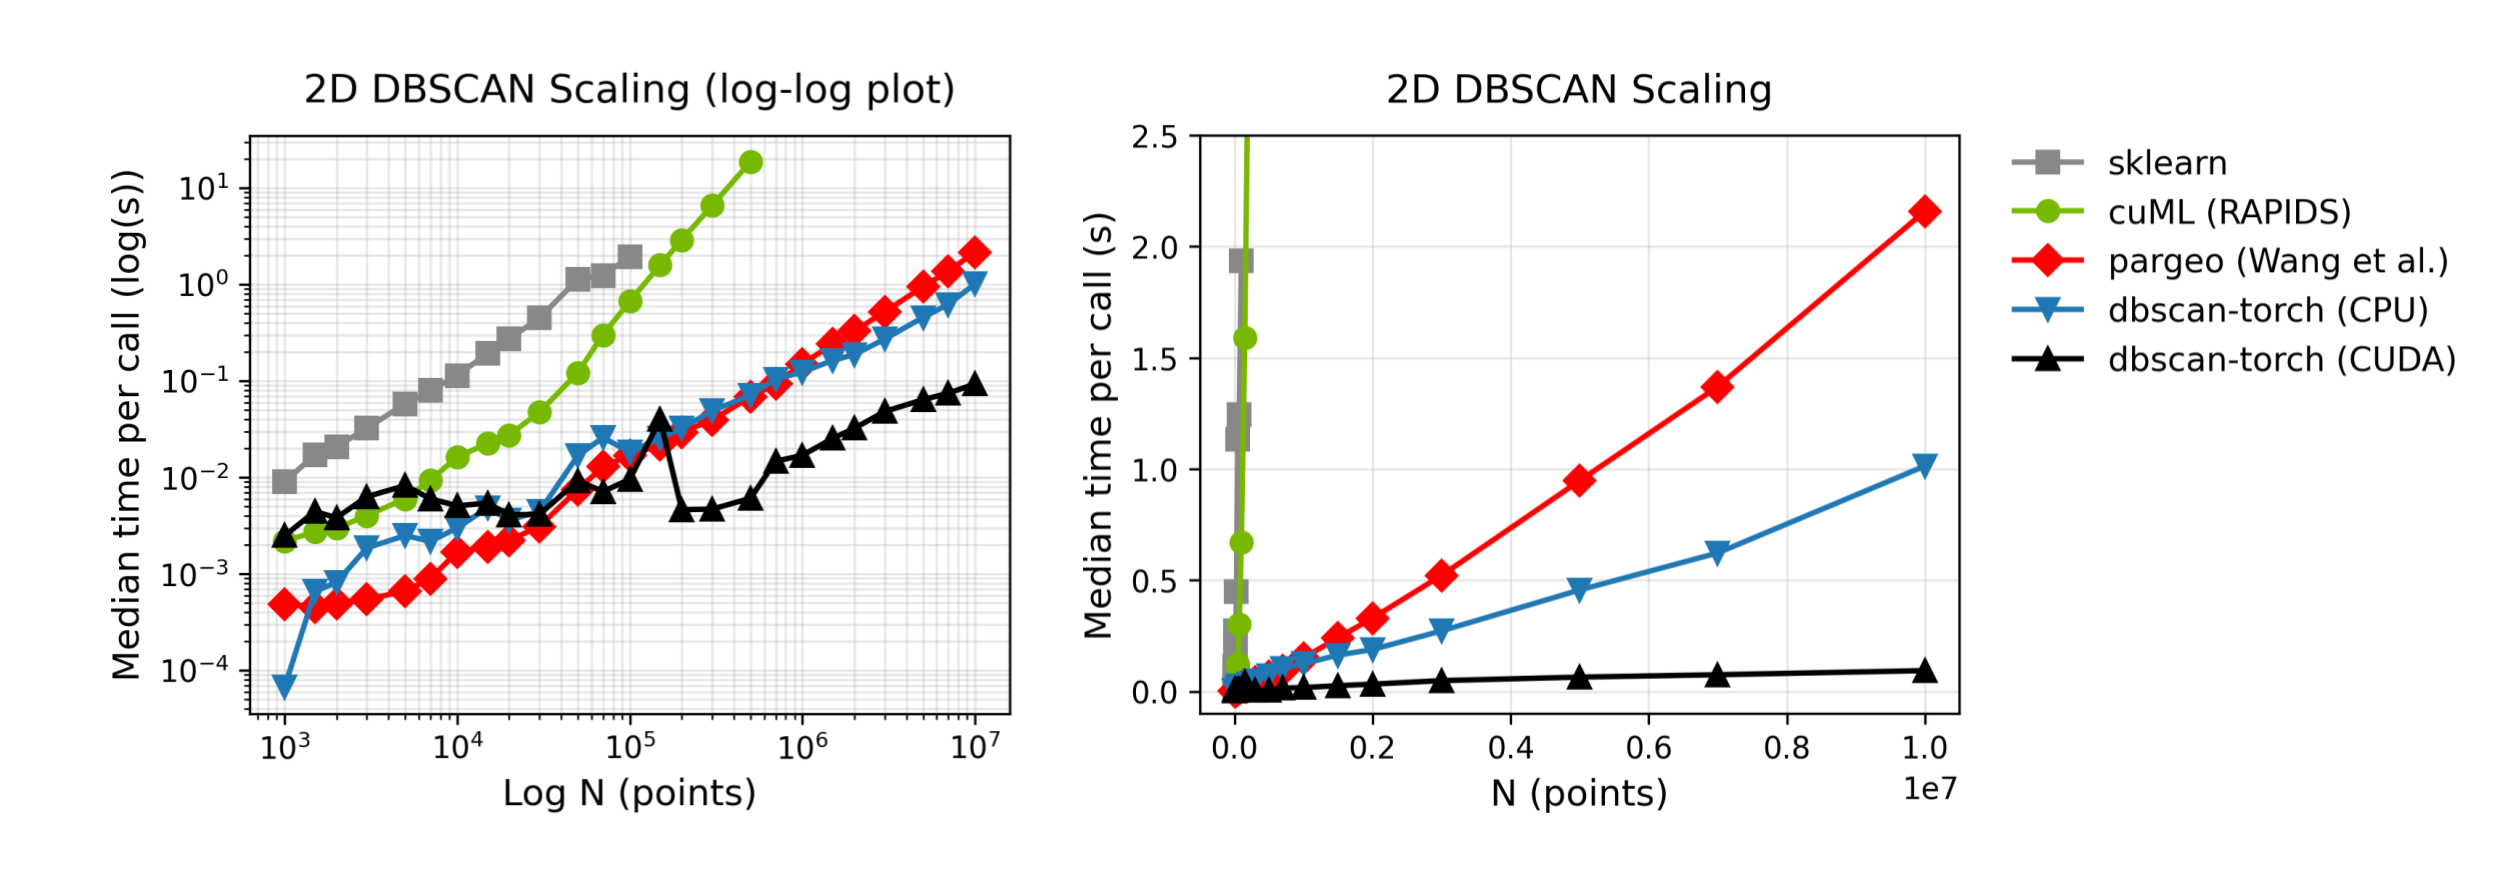
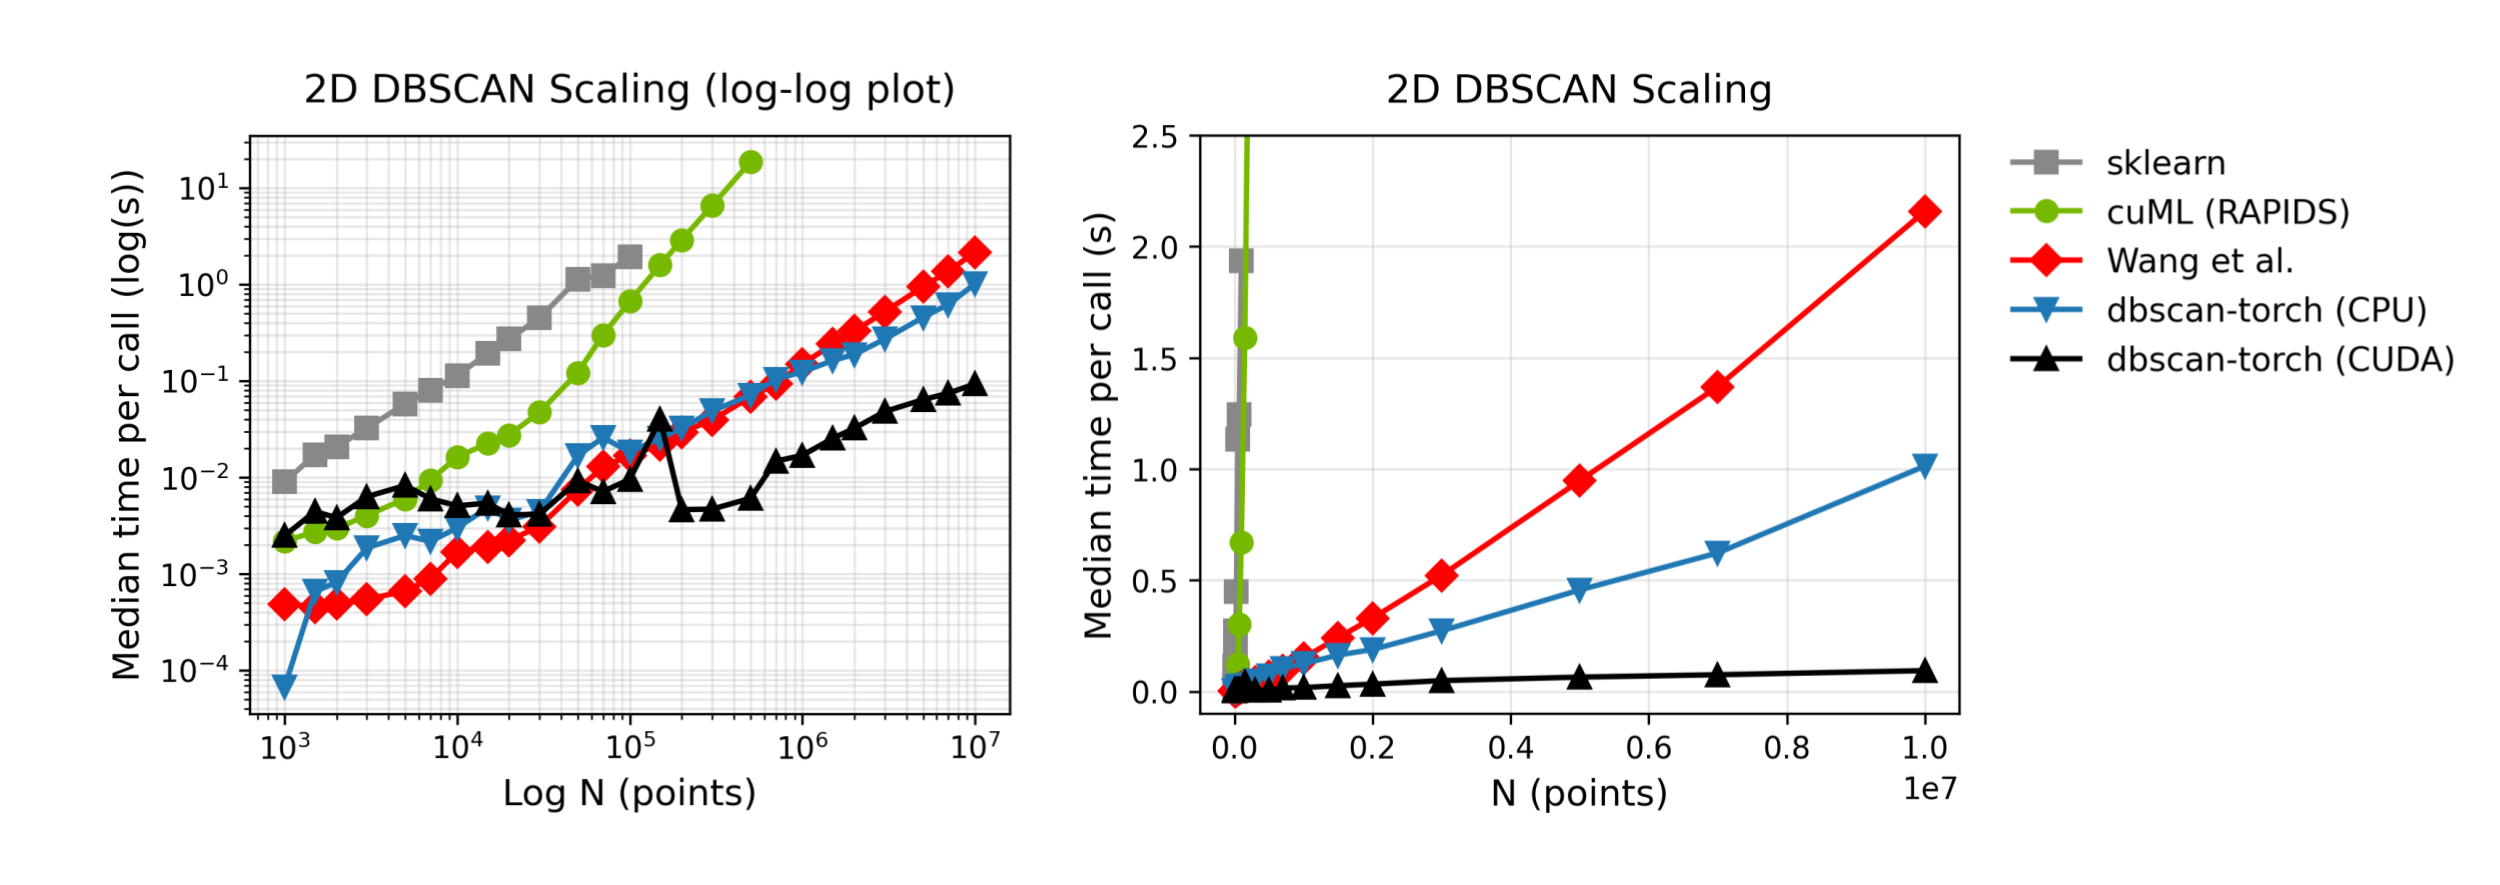
fixed references to Wang et al.'s paper

Changed region(s): [[0.8424, 0.1525, 0.9984, 0.4271]]

diff --git a/README.md b/README.md
@@ -6,8 +6,8 @@ GPU-accelerated 2D DBSCAN as a native PyTorch op. Tensor in, tensor out, on
 the same device, with no host to device round-trip. Parallel CPU and CUDA
 implementations, dispatched automatically on `X.device`.
 
-Based on the grid-hashing approach from [pargeo][pargeo-paper] (Wang et al.,
-SIGMOD 2020), reimplemented as a native PyTorch extension with CUDA support.
+Based on the grid-hashing approach from [Wang et al. (SIGMOD 2020)][wang-paper],
+reimplemented as a native PyTorch extension with CUDA support.
 
 ## Install
 
@@ -54,22 +54,23 @@ See `examples/` for runnable scripts.
 `sklearn.cluster.DBSCAN` is single-threaded CPU and forces you to copy your
 tensor off the device, cluster, then copy labels back. `dbscan-torch` keeps
 the whole pipeline on the GPU while being magnitudes faster than sklearn and
-lighter than [pargeo][pargeo-paper], while also supporting GPU acceleration for
-massive gains on large N.
+lighter than [`dbscan-python`][dbscan-python-repo], while also supporting GPU
+acceleration for massive gains on large N.
 
 | Implementation | Parallelism | Output | Sweet Spot |
 |---|---|---|---|
 | `sklearn.cluster.DBSCAN` | single-threaded CPU | numpy | small N, prototyping |
 | [cuml.DBSCAN][cuml-repo] (RAPIDS) | CUDA | cupy / numpy | RAPIDS ecosystem |
-| [pargeo][pargeo-paper] (`pip install dbscan`) | parallel CPU | numpy | CPU at N < ~1M |
+| [Wang et al.][wang-paper] (`pip install dbscan`) | parallel CPU | numpy | CPU at N < ~1M |
 | `dbscan-torch` (this) | parallel CPU + CUDA | torch tensor | torch pipelines, CUDA at N > 70k, CPU at N > 1M |
 
-The pargeo row references Wang et al., "Theoretically-Efficient and Practical
-Parallel DBSCAN" (SIGMOD 2020). Their python bindings ship via
-[`pip install dbscan`][pargeo-repo].
+The third row is the reference implementation of Wang et al.,
+"Theoretically-Efficient and Practical Parallel DBSCAN" (SIGMOD 2020),
+distributed as the [`dbscan-python`][dbscan-python-repo] package
+(`pip install dbscan`).
 
-[pargeo-paper]: https://dl.acm.org/doi/10.1145/3318464.3380582
-[pargeo-repo]: https://github.com/wangyiqiu/dbscan-python
+[wang-paper]: https://dl.acm.org/doi/10.1145/3318464.3380582
+[dbscan-python-repo]: https://github.com/wangyiqiu/dbscan-python
 [cuml-repo]: https://github.com/rapidsai/cuml
 
 ## Scaling
@@ -80,29 +81,29 @@ Parallel DBSCAN" (SIGMOD 2020). Their python bindings ship via
 
 Median time per call against N across all five implementations, on
 synthetic 2D Gaussian clusters at constant density. CPU runs (sklearn,
-pargeo, `dbscan-torch` CPU) were measured locally on a MacBook Pro Intel
-i9. GPU runs (cuml.DBSCAN, `dbscan-torch` CUDA) were measured on a Modal T4
-instance.
+Wang et al., `dbscan-torch` CPU) were measured locally on a MacBook Pro
+Intel i9. GPU runs (cuml.DBSCAN, `dbscan-torch` CUDA) were measured on a
+Modal T4 instance.
 
 `sklearn` goes off-scale past 100k. `cuml.DBSCAN` is included for
 reference but scales poorly on 2D inputs in this benchmark and caps out by
 500k. The CUDA line stays under 100ms across the whole range while the CPU
 implementations scale linearly. At 10M points `dbscan-torch` on CUDA is
-~23x faster than pargeo and ~11x faster than the torch CPU path.
+~23x faster than Wang et al. and ~11x faster than the torch CPU path.
 
 
 ### Benchmark Details
 
-| N          |   cuml | pargeo | torch CPU | torch CUDA | CUDA vs pargeo  |
-|------------|-------:|-------:|----------:|-----------:|----------------:|
-| 1,000      |  0.002 | <0.001 |    <0.001 |      0.002 |  0.20x (slower) |
-| 10,000     |  0.016 |  0.002 |     0.003 |      0.005 |  0.33x (slower) |
-| 50,000     |  0.122 |  0.007 |     0.017 |      0.009 |  0.81x (slower) |
-| 100,000    |  0.671 |  0.017 |     0.018 |      0.010 |  1.76x          |
-| 500,000    | 18.700 |  0.068 |     0.071 |      0.006 | 11.21x          |
-| 1,000,000  |      - |  0.150 |     0.124 |      0.017 |  8.85x          |
-| 5,000,000  |      - |  0.947 |     0.456 |      0.064 | 14.80x          |
-| 10,000,000 |      - |  2.159 |     1.013 |      0.093 | 23.17x          |
+| N          |   cuml | Wang et al. | torch CPU | torch CUDA | CUDA vs Wang et al. |
+|------------|-------:|------------:|----------:|-----------:|--------------------:|
+| 1,000      |  0.002 |      <0.001 |    <0.001 |      0.002 |      0.20x (slower) |
+| 10,000     |  0.016 |       0.002 |     0.003 |      0.005 |      0.33x (slower) |
+| 50,000     |  0.122 |       0.007 |     0.017 |      0.009 |      0.81x (slower) |
+| 100,000    |  0.671 |       0.017 |     0.018 |      0.010 |              1.76x  |
+| 500,000    | 18.700 |       0.068 |     0.071 |      0.006 |             11.21x  |
+| 1,000,000  |      - |       0.150 |     0.124 |      0.017 |              8.85x  |
+| 5,000,000  |      - |       0.947 |     0.456 |      0.064 |             14.80x  |
+| 10,000,000 |      - |       2.159 |     1.013 |      0.093 |             23.17x  |
 
 (- means run skipped. cuml caps out by 500k in this benchmark.)
 
